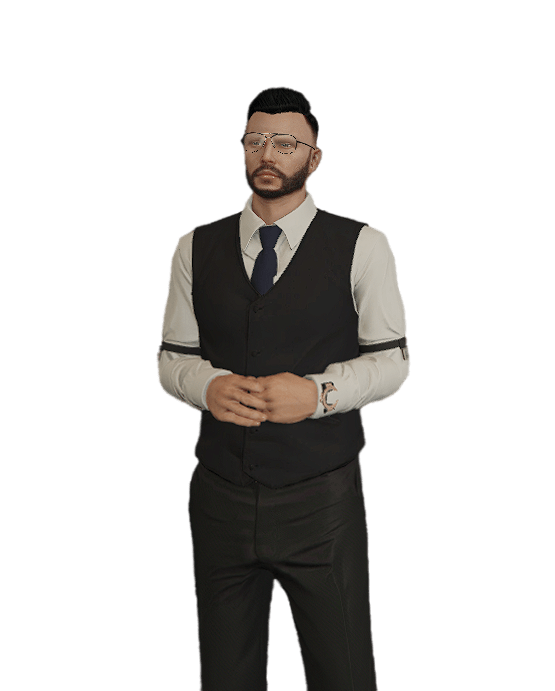
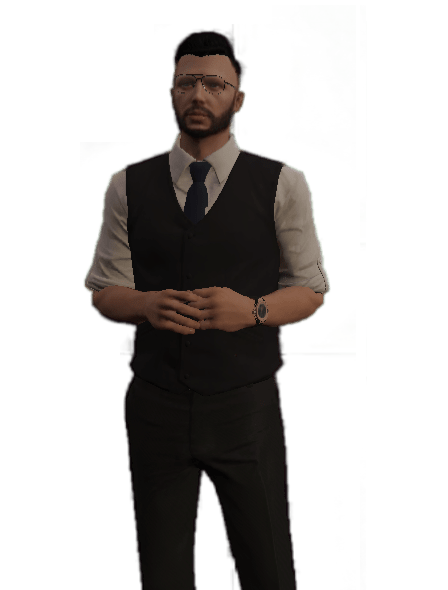
Add files via upload

Changed region(s): [[0.1875, 0.0305, 0.75, 1.0], [0.4062, 0.7627, 0.5625, 1.0], [0.4688, 0.7017, 0.5312, 0.7322]]

diff --git a/index.html b/index.html
@@ -104,9 +104,9 @@
                 <div class="card-text">Ivan Persson | Директор USSS</div>
             </div> -->
             <hr>
-            <div class="structure-card-left np">
+            <div class="structure-card-left">
                 <div class="card-photo">
-                    <img src="img/characters/" alt="">
+                    <img src="img/characters/Aleksander Ricci.png" alt="">
                 </div>
                 <div class="card-text">Aleksandr Ricci | Верховный Судья</div>
             </div>
